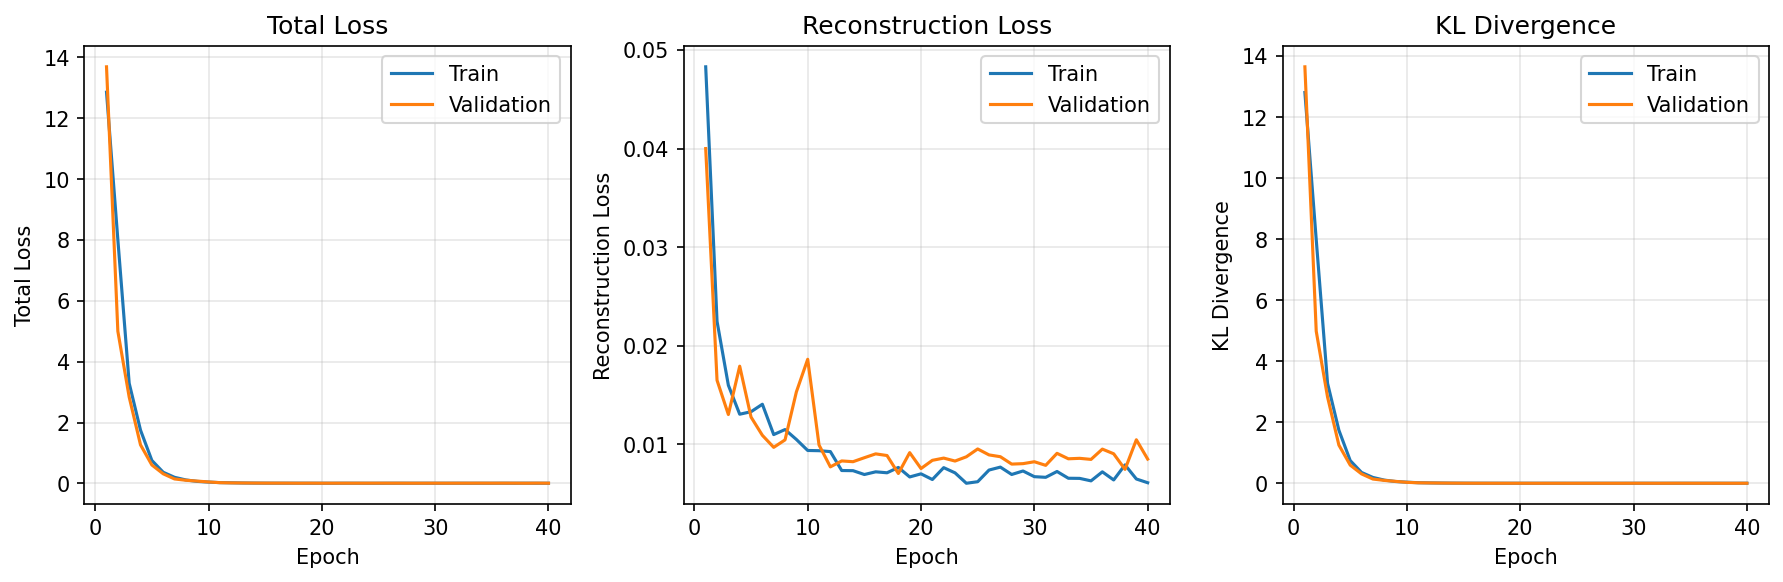
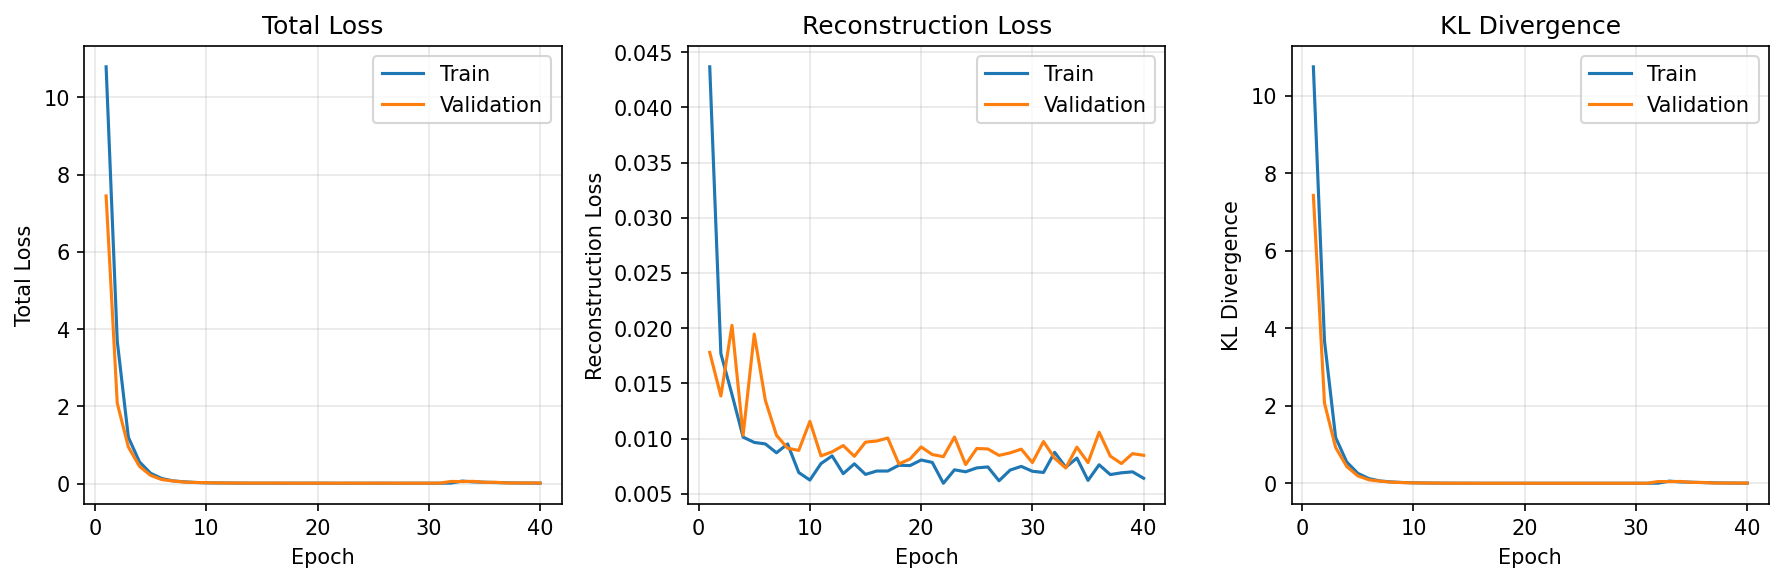
added basic inference

diff --git a/src/inference.py b/src/inference.py
@@ -1,0 +1,205 @@
+import os
+import torch
+import matplotlib.pyplot as plt
+import numpy as np
+
+from src.train import loss_function
+
+def denormalise(a_norm, min_val, max_val):
+    return a_norm * (max_val - min_val) + min_val
+
+def _is_tensor(data):
+    # Helper function to check (PyTorch/NumPy) and convert to numpy
+    if isinstance(data, torch.Tensor):
+        return data.detach().cpu().numpy()
+    elif isinstance(data, np.ndarray):
+        return data
+    else:
+        return np.array(data)
+
+def _guess_and_reshape(array, loader):
+    # Try to infer from loader the original shape (if possible)
+    # loader may be a DataLoader or ADNIDataset - extract sample shape heuristically
+    if hasattr(loader, 'dataset') and hasattr(loader.dataset, 'data'):
+        orig_shape = None
+        # See if loader.dataset.data is a list/ndarray of right shape
+        sample = loader.dataset.data[0]
+        if hasattr(loader.dataset, 'flatten') and not loader.dataset.flatten:
+            # Already 2D
+            orig_shape = sample.shape
+        else:
+            # Try to get from length/ROI assumption: (N_ROIs, T_timepoints)
+            # N193 default: 400 x 197  -- input_dim = 78800 = 400*197
+            arr_len = len(sample)
+            for n_roi in [400, 200]:
+                if arr_len % n_roi == 0:
+                    t_tp = arr_len // n_roi
+                    orig_shape = (n_roi, t_tp)
+                    break
+        if orig_shape is not None:
+            return array.reshape(orig_shape)
+    # Otherwise, leave as 1D
+    return array
+
+
+def get_rmse(x, x_hat):
+    error = x - x_hat
+    return np.sqrt(np.mean(error ** 2))
+
+
+def mse_denormalised(x_norm, x_hat_norm, min_val, max_val, per_feature=True):
+    """
+    Compute MSE on denormalised data.
+
+    Args:
+        x_norm: Original data (normalised), shape (n_samples, n_features)
+        x_hat_norm: Reconstructed data (normalised)
+        min_val: Minimum value used for normalisation
+        max_val: Maximum value used for normalisation
+        per_feature: If True, return MSE per feature (mean over samples), shape (n_features,).
+                     If False, return scalar MSE over all.
+
+    Returns:
+        MSE in original (denormalised) units — array of shape (n_features,) or scalar
+    """
+    x = _is_tensor(x_norm)
+    x_hat = _is_tensor(x_hat_norm)
+    x_denorm = denormalise(x, min_val, max_val)
+    x_hat_denorm = denormalise(x_hat, min_val, max_val)
+    sq_err = (x_denorm - x_hat_denorm) ** 2
+    if per_feature:
+        return np.mean(sq_err, axis=0)  # shape (n_features,)
+    return np.mean(sq_err)
+
+
+def visualise_examples(examples, data_loader, show=True):
+    """
+    Visualise each example as a heatmap: original x (row) and reconstructed x (row) for n examples.
+    """
+    n_examples = len(examples)
+    fig, axs = plt.subplots(n_examples, 3, figsize=(10, 3*n_examples))
+    if n_examples == 1:
+        axs = np.expand_dims(axs, 0)  # so we can index axs[i, ...]
+    for idx, (x, x_hat) in enumerate(examples):
+        # Convert tensor->numpy (detach, cpu, etc)
+        x_np = _is_tensor(x.squeeze())
+        x_hat_np = _is_tensor(x_hat.squeeze())
+        # Try to reshape to (N_ROIs, T_timepoints) for heatmap
+        x_2d = _guess_and_reshape(x_np, data_loader)
+        x_hat_2d = _guess_and_reshape(x_hat_np, data_loader)
+        # Plot original
+        ax0 = axs[idx, 0]
+        im0 = ax0.imshow(x_2d, aspect='auto', cmap='viridis')
+        ax0.set_title(f'Example {idx+1} - Original')
+        plt.colorbar(im0, ax=ax0, fraction=0.05)
+        # Plot reconstruction
+        ax1 = axs[idx, 1]
+        im1 = ax1.imshow(x_hat_2d, aspect='auto', cmap='viridis')
+        ax1.set_title(f'Example {idx+1} - Reconstructed')
+        plt.colorbar(im1, ax=ax1, fraction=0.05)
+
+        # Plot difference
+        ax2 = axs[idx, 2]
+        err = x_2d - x_hat_2d
+        im2 = ax2.imshow(err, aspect='auto', cmap='viridis')
+        ax2.set_title(f'Example {idx+1} - Error')
+        plt.colorbar(im2, ax=ax2, fraction=0.05)
+
+        for ax in (ax0, ax1, ax2):
+            ax.set_xlabel('Time')
+            ax.set_ylabel('ROI')
+    plt.tight_layout()
+    if show:
+        plt.show()
+
+
+def visualise_error(errors, data_loader, show=True):
+    errors = errors.to(device='cpu')
+    bias = torch.mean(errors, axis=0)
+    mse = torch.mean(errors ** 2, axis=0)
+    rmse = torch.sqrt(mse)
+    
+    bias_map = _guess_and_reshape(bias.numpy(), data_loader)
+    mse_map = _guess_and_reshape(mse.numpy(), data_loader)
+    rmse_map = _guess_and_reshape(rmse.numpy(), data_loader)
+
+    fig, axs = plt.subplots(1, 3, figsize=(10, 3))
+    im0 = axs[0].imshow(bias_map, aspect='auto', cmap='viridis')
+    axs[0].set_title('Bias')
+    plt.colorbar(im0, ax=axs[0], fraction=0.05)
+    im1 = axs[1].imshow(mse_map, aspect='auto', cmap='viridis')
+    axs[1].set_title('MSE')
+    plt.colorbar(im1, ax=axs[1], fraction=0.05)
+    im2 = axs[2].imshow(rmse_map, aspect='auto', cmap='viridis')
+    axs[2].set_title('RMSE')
+    plt.colorbar(im2, ax=axs[2], fraction=0.05)
+    for ax in axs:
+        ax.set_xlabel('Time')
+        ax.set_ylabel('ROI')
+
+    plt.tight_layout()
+    if show:
+        plt.show()
+
+
+def inference_vae_basic(
+    model,
+    data_loader,
+    device='cuda' if torch.cuda.is_available() else 'cpu',
+    loss_per_feature=True,
+    num_examples=3,
+    plot_dir=None
+):
+    model.eval()
+    all_losses = []
+    all_recons = []
+    all_klds = []
+    errors = torch.tensor([])
+    top_n_examples = []
+    min_val = getattr(data_loader, 'data_min', None) or getattr(
+        getattr(data_loader, 'dataset', None), 'data_min', None
+    )
+    max_val = getattr(data_loader, 'data_max', None) or getattr(
+        getattr(data_loader, 'dataset', None), 'data_max', None
+    )
+
+    with torch.no_grad():
+        for batch_idx, (data, _) in enumerate(data_loader):
+            x = data.to(device)
+            recon_x, mu, logvar, z = model(x)
+            loss, recon, kld = loss_function(x, recon_x, mu, logvar, loss_per_feature)
+            if len(top_n_examples) < num_examples:
+                top_n_examples = [(x[i], recon_x[i]) for i in range(num_examples)]
+            all_losses.append(loss.item())
+            all_recons.append(recon.item())
+            all_klds.append(kld.item())
+
+            if min_val is not None and max_val is not None:
+                x_denorm = denormalise(x, min_val, max_val)
+                x_hat_denorm = denormalise(recon_x, min_val, max_val)
+                errors = torch.cat([errors, (x_denorm - x_hat_denorm)])
+
+    avg_loss = sum(all_losses) / len(all_losses)
+    avg_recon = sum(all_recons) / len(all_recons)
+    avg_kld = sum(all_klds) / len(all_klds)
+
+    print(f"Average loss: {avg_loss}")
+    print(f"Average reconstruction: {avg_recon}")
+    print(f"Average KLD: {avg_kld}")
+
+    top_n_denormed = [
+        (denormalise(x, min_val, max_val), denormalise(recon_x, min_val, max_val))
+        for x, recon_x in top_n_examples
+    ] if min_val is not None and max_val is not None else top_n_examples
+
+    visualise_error(errors, data_loader, show=plot_dir is None)
+    if plot_dir:
+        os.makedirs(plot_dir, exist_ok=True)
+        plt.savefig(os.path.join(plot_dir, 'basicVAE_error.png'), dpi=150, bbox_inches='tight')
+        plt.close()
+    visualise_examples(top_n_denormed, data_loader, show=plot_dir is None)
+    if plot_dir:
+        plt.savefig(os.path.join(plot_dir, 'basicVAE_examples.png'), dpi=150, bbox_inches='tight')
+        plt.close()
+    
+    return avg_loss, avg_recon, avg_kld

diff --git a/src/train.py b/src/train.py
@@ -31,6 +31,36 @@ def loss_function(x, x_hat, mu, log_var, error_per_feature=True):
 
     return recon + kld, recon, kld
 
+import math
+
+def denormalise_losses(recon, kld, min_val, max_val, input_dim, latent_dim, error_per_feature=True):
+
+    R = max_val - min_val  # global range
+
+    # Convert recon to per-feature MSE (normalized space)
+    if not error_per_feature:
+        mse_norm_per_feature = recon / input_dim
+    else:
+        mse_norm_per_feature = recon
+
+    rmse_norm_per_feature = math.sqrt(mse_norm_per_feature)
+
+    # Convert to original units
+    mse_orig_per_feature = mse_norm_per_feature * (R ** 2)
+    rmse_orig_per_feature = rmse_norm_per_feature * R
+
+    # KL is unitless — just make it interpretable
+    kld_per_dim = kld / latent_dim
+
+    return {
+        "mse_norm_per_feature": mse_norm_per_feature,
+        "rmse_norm_per_feature": rmse_norm_per_feature,
+        "mse_orig_per_feature": mse_orig_per_feature,
+        "rmse_orig_per_feature": rmse_orig_per_feature,
+        "kld_per_dim": kld_per_dim,
+    }
+
+
 def train_vae_basic(
     model,
     train_loader,
@@ -49,7 +79,14 @@ def train_vae_basic(
         'val_reproduction_loss': [],
         'val_KLD': [],
     }
-    best_val_loss = float('inf')
+    best_model_losses = {
+        'train_loss': float('inf'),
+        'train_reproduction_loss': float('inf'),
+        'train_KLD': float('inf'),
+        'val_loss': float('inf'),
+        'val_reproduction_loss': float('inf'),
+        'val_KLD': float('inf'),
+    }
     optimizer = optim.Adam(model.parameters(), lr=learning_rate)
     for epoch in range(num_epochs):
         train_loss = 0.0
@@ -99,11 +136,27 @@ def train_vae_basic(
 
         # select best model based on validation loss
         avg_val_loss = val_loss / num_val_batches
-        if avg_val_loss < best_val_loss:
-            best_val_loss = avg_val_loss
+        if avg_val_loss < best_model_losses['val_loss']:
+            best_model_losses['val_loss'] = avg_val_loss
+            best_model_losses['val_reproduction_loss'] = val_reproduction_loss / num_val_batches
+            best_model_losses['val_KLD'] = val_KLD / num_val_batches
+            best_model_losses['train_loss'] = train_loss / num_batches
+            best_model_losses['train_reproduction_loss'] = train_reproduction_loss / num_batches
+            best_model_losses['train_KLD'] = train_KLD / num_batches
             torch.save(model.state_dict(), f'{save_dir}/best_model.pt')
-
+            
     print("Training complete!")
+
+    print("Calculated denormalised losses for best model:")
+    train_unnorm_losses = denormalise_losses(train_reproduction_loss, train_KLD, train_loader.dataset.data_min, train_loader.dataset.data_max, 78800, 64, loss_per_feature)
+    val_unnorm_losses = denormalise_losses(val_reproduction_loss, val_KLD, train_loader.dataset.data_min, train_loader.dataset.data_max, 78800, 64, loss_per_feature)
+    print(f"Train:")
+    print(f"\tRMSE per feature: {train_unnorm_losses['rmse_orig_per_feature']}")
+    print(f"\tKLD per dim: {train_unnorm_losses['kld_per_dim']}")
+    print(f"Validation:")
+    print(f"\tRMSE per feature: {val_unnorm_losses['rmse_orig_per_feature']}")
+    print(f"\tKLD per dim: {val_unnorm_losses['kld_per_dim']}")
+
 
     return history
 

diff --git a/main.py b/main.py
@@ -6,6 +6,7 @@ This script loads ADNI-B data and can be used for training models or running inf
 
 import argparse
 import os
+import torch
 from src.load_data import load_adni, prepare_data_loaders
 
 
@@ -113,14 +114,29 @@ def main():
         os.makedirs('plots', exist_ok=True)
         plot_training_history(history, save_path='plots/basicVAE_training_history.png', show=False)
         print("Training history saved to plots/basicVAE_training_history.png")
-        print("Training complete!")
         print("=" * 60)
         
     elif args.mode == 'inference':
         # TODO: Add inference logic here
         print("\n" + "=" * 60)
-        print("Inference mode - TODO: Implement inference logic")
+        print("Inference mode")
         print("=" * 60)
+
+        # running on mac
+        device = 'mps'
+
+        from src.models import BasicVAE
+        from src.inference import inference_vae_basic
+        model = BasicVAE(input_dim=78800, device=device)
+        model.load_state_dict(torch.load('checkpoints/best_model.pt'))
+        inference_vae_basic(
+            model,
+            loaders['test_loader'],
+            device=device,
+            loss_per_feature=True,
+            num_examples=3,
+            plot_dir='plots'
+        )
 
     return data_loader, loaders
 

diff --git a/src/load_data.py b/src/load_data.py
@@ -468,6 +468,8 @@ def prepare_data_loaders(
     train_loader = DataLoader(
         train_dataset, batch_size=batch_size, shuffle=shuffle_train
     )
+    train_loader.data_min = data_min
+    train_loader.data_max = data_max
     
     result = {
         'train_loader': train_loader,
@@ -483,6 +485,8 @@ def prepare_data_loaders(
         val_loader = DataLoader(
             val_dataset, batch_size=batch_size, shuffle=False
         )
+        val_loader.data_min = data_min
+        val_loader.data_max = data_max
         result['val_loader'] = val_loader
         result['num_samples']['val'] = len(val_dataset)
     
@@ -492,6 +496,8 @@ def prepare_data_loaders(
         test_loader = DataLoader(
             test_dataset, batch_size=batch_size, shuffle=False
         )
+        test_loader.data_min = data_min
+        test_loader.data_max = data_max
         result['test_loader'] = test_loader
         result['num_samples']['test'] = len(test_dataset)
     
